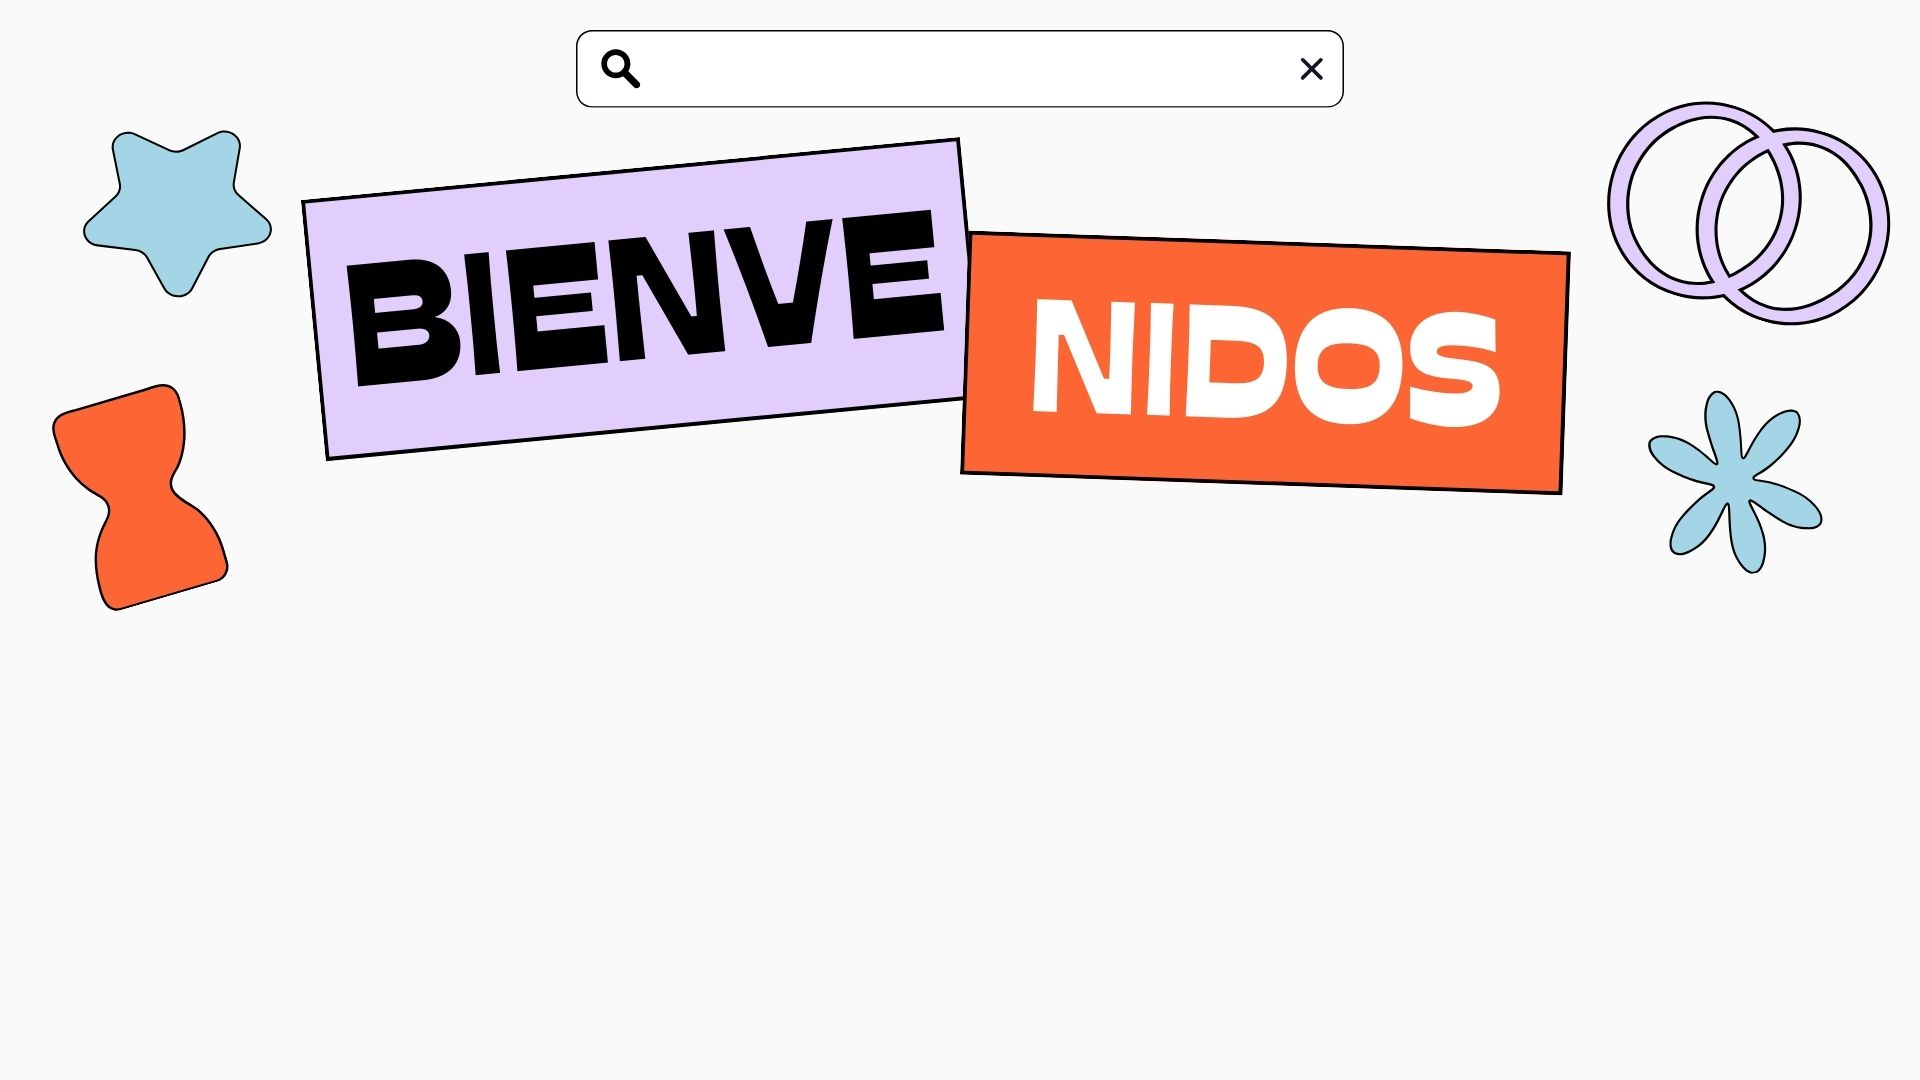
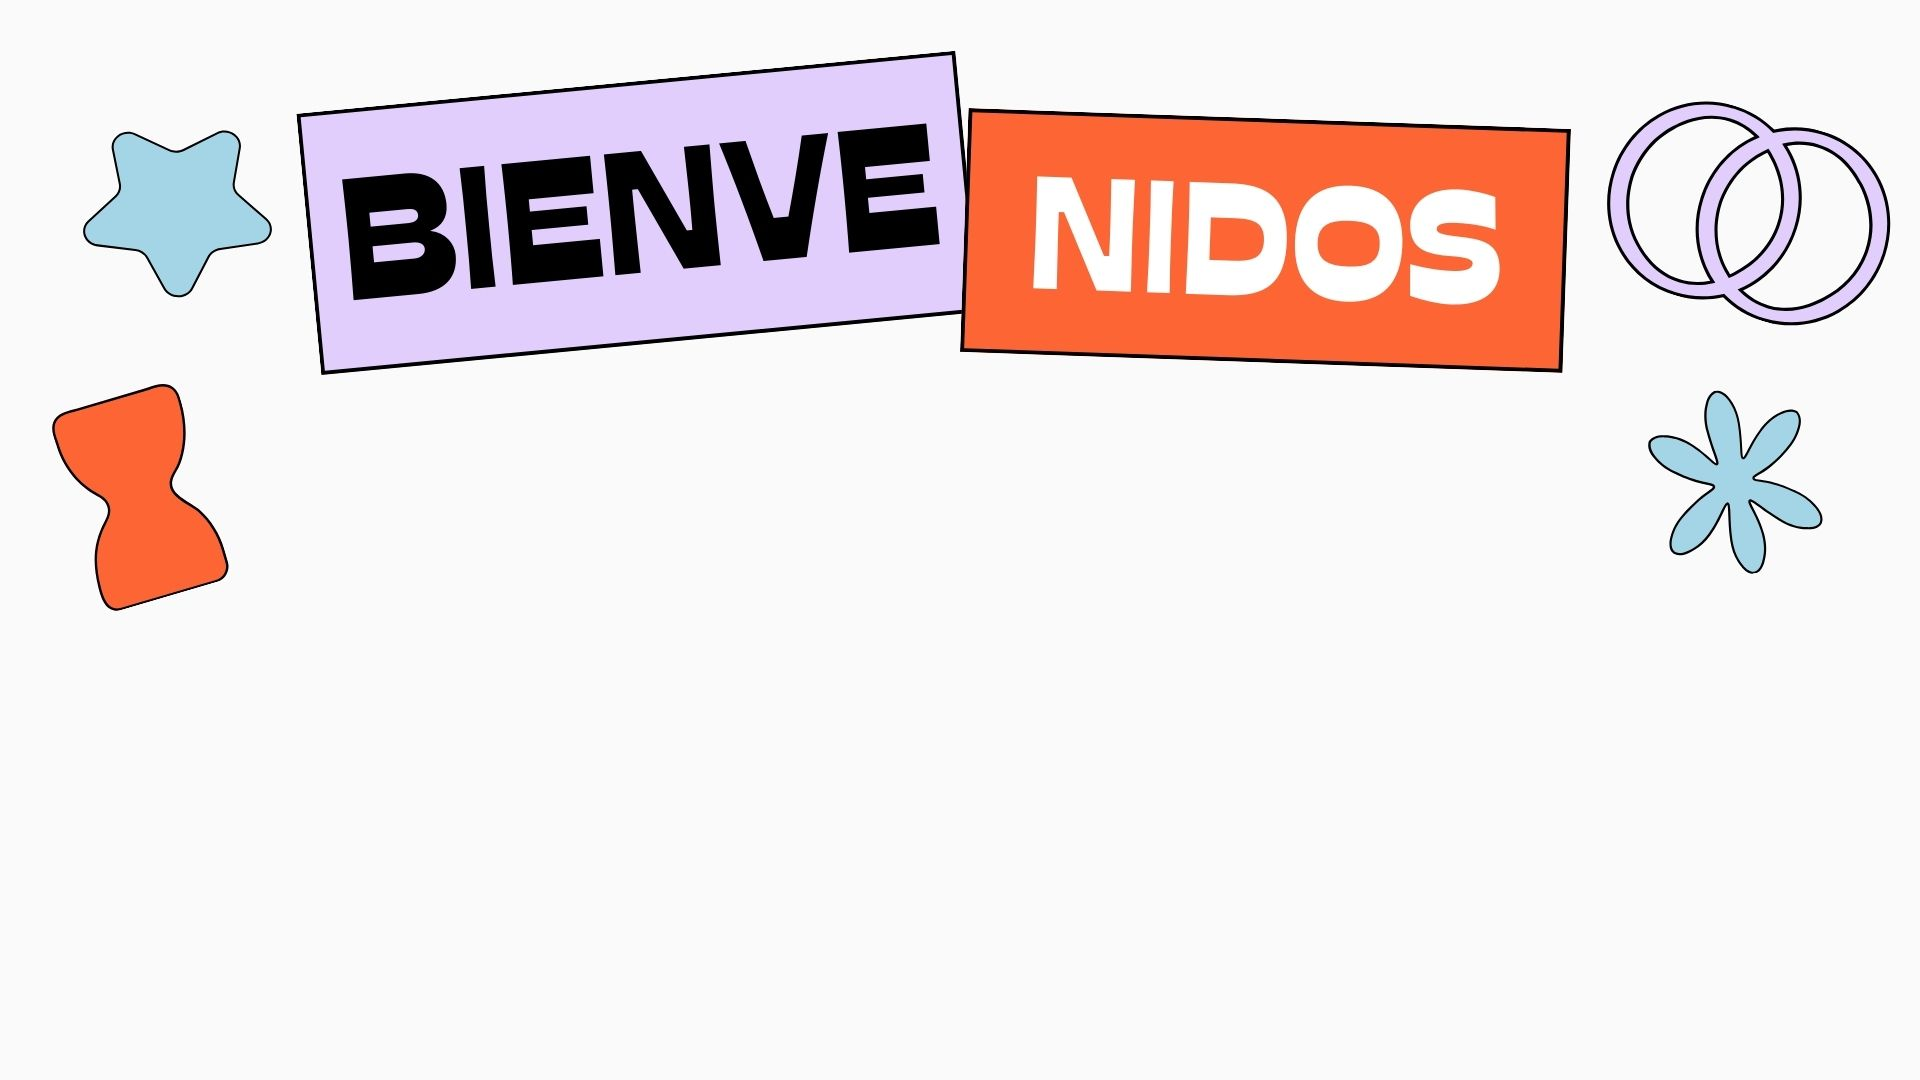
background y preguntas
background y preguntas

Changed region(s): [[0.1562, 0.0306, 0.8438, 0.4583]]

diff --git a/frontend/dom.js b/frontend/dom.js
@@ -8,12 +8,15 @@ function changeScreen() {
     const notepad = document.getElementById("notepad");
     const login = document.getElementById("login");
     const titulo = document.getElementById("titulo");
+    const body = document.getElementById("body");
+
     if(notepad.style.display !== "none") {
         notepad.style.display = "none";
         login.style.display = "";
         titulo.style.display = "";
     }
     else {
+        body.style.backgroundImage = 'url("styles/imagenes/Bienvenidos.jpg")';
         notepad.style.display = "";
         login.style.display = "none";
         titulo.style.display = "none";
@@ -49,15 +52,23 @@ document.body.style.backgroundColor = nextColor
 }
 
 function changeScreenAdmin() {
+    console.log("Me llame")
     const notepadAdmin = document.getElementById("notepadAdmin");
     const tituloAdmin = document.getElementById("tituloAdmin");
+    const login = document.getElementById("login");
+    const titulo = document.getElementById("titulo");
+
     if(notepadAdmin.style.display !== "none") {
         notepadAdmin.style.display = "none";
-        tituloAdmin.style.display = "";
+        tituloAdmin.style.display = "none";
+        login.style.display = "";
+        titulo.style.display = "";
     }
     else {
         notepadAdmin.style.display = "";
-        tituloAdmin.style.display = "none";
+        tituloAdmin.style.display = "";
+        login.style.display = "none";
+        titulo.style.display = "none";
         
     }
 const colors = ["orange"]; // Colores de fondo alternativos

diff --git a/frontend/index.html b/frontend/index.html
@@ -14,7 +14,8 @@
         <title>Presupuesto1erProyecto</title>
         <link href="styles/style.css" rel="stylesheet" type="text/css" />
     </head>
-    <body class="container">
+    <body class="container" id="body">
+        <button class="form-check-control btn btn-danger" onclick="logout()">logout</button>
         <h1 id="titulo">REGISTRO</h1>
         <div id="login">
             <div class="shadow p-3 mb-5 bg-white rounded">
@@ -37,8 +38,6 @@
         
         <div id="notepad" style="display: none">
             <div>
-                
-                <h1>BIENVENIDOS</h1>
                 <div class="form-group">
                         <button id="comoJugar" class="buttonJugar" onclick> <a href="comoJugar.html">Cómo jugar?</a></button>
                 </div>
@@ -50,10 +49,10 @@
                     </div>
                 
                 </div>
-    </table>
+        </div>
     <br>
     <br>
-    <div id="notepadAdmin">
+    <div id="notepadAdmin" style="display: none">
     <table id="nuevaPregunta"></table>
     <h2 id="tituloAdmin"> PREGUNTAS </h2>
     <input id="ingresarid_preguntas" placeholder="id pregunta">

diff --git a/frontend/styles/style.css b/frontend/styles/style.css
@@ -3,7 +3,9 @@ body, html {
     padding: 0;
     font-family:'Dancing Script', cursive; 
 }
-
+body{
+    background-image: url("imagenes/Registro.jpg");
+}
 .container {
     background-color: #a4dbff;
     min-height: 100vh;
@@ -157,13 +159,16 @@ h2 {
     text-align: center;
     align-items: center;
     padding: 10px 20px;
-    border-radius: 2px 2px 20px 2px;
     font-size: 16px;
     text-transform: uppercase;
     font-weight: bold;
-    border: none;
     margin: 0 auto;
-    display:block;
+    vertical-align: bottom;
+    height: 20%;
+    width: 100%;
+    display: flex;
+    align-items: flex-end;
+   justify-content: center;
 }
 
 .buttonJugar {
@@ -184,8 +189,7 @@ h2 {
     border-color: #91e6e9;
 }
 
-#notepad{
-    background-image: url("imagenes/Bienvenidos.jpg");
+#body{
     background-size: cover;
     background-attachment: scroll;
     display: flexbox;

diff --git a/frontend/classes/funciones.js b/frontend/classes/funciones.js
@@ -78,3 +78,9 @@ function respuestaCorrecta(preguntasId, respuestasId) {
 function comoJugar (){
     changeScreenComoJugar();
 }
+
+function logout(){
+    clientId = -1
+    posCliente= -1
+    changeScreen()
+}
